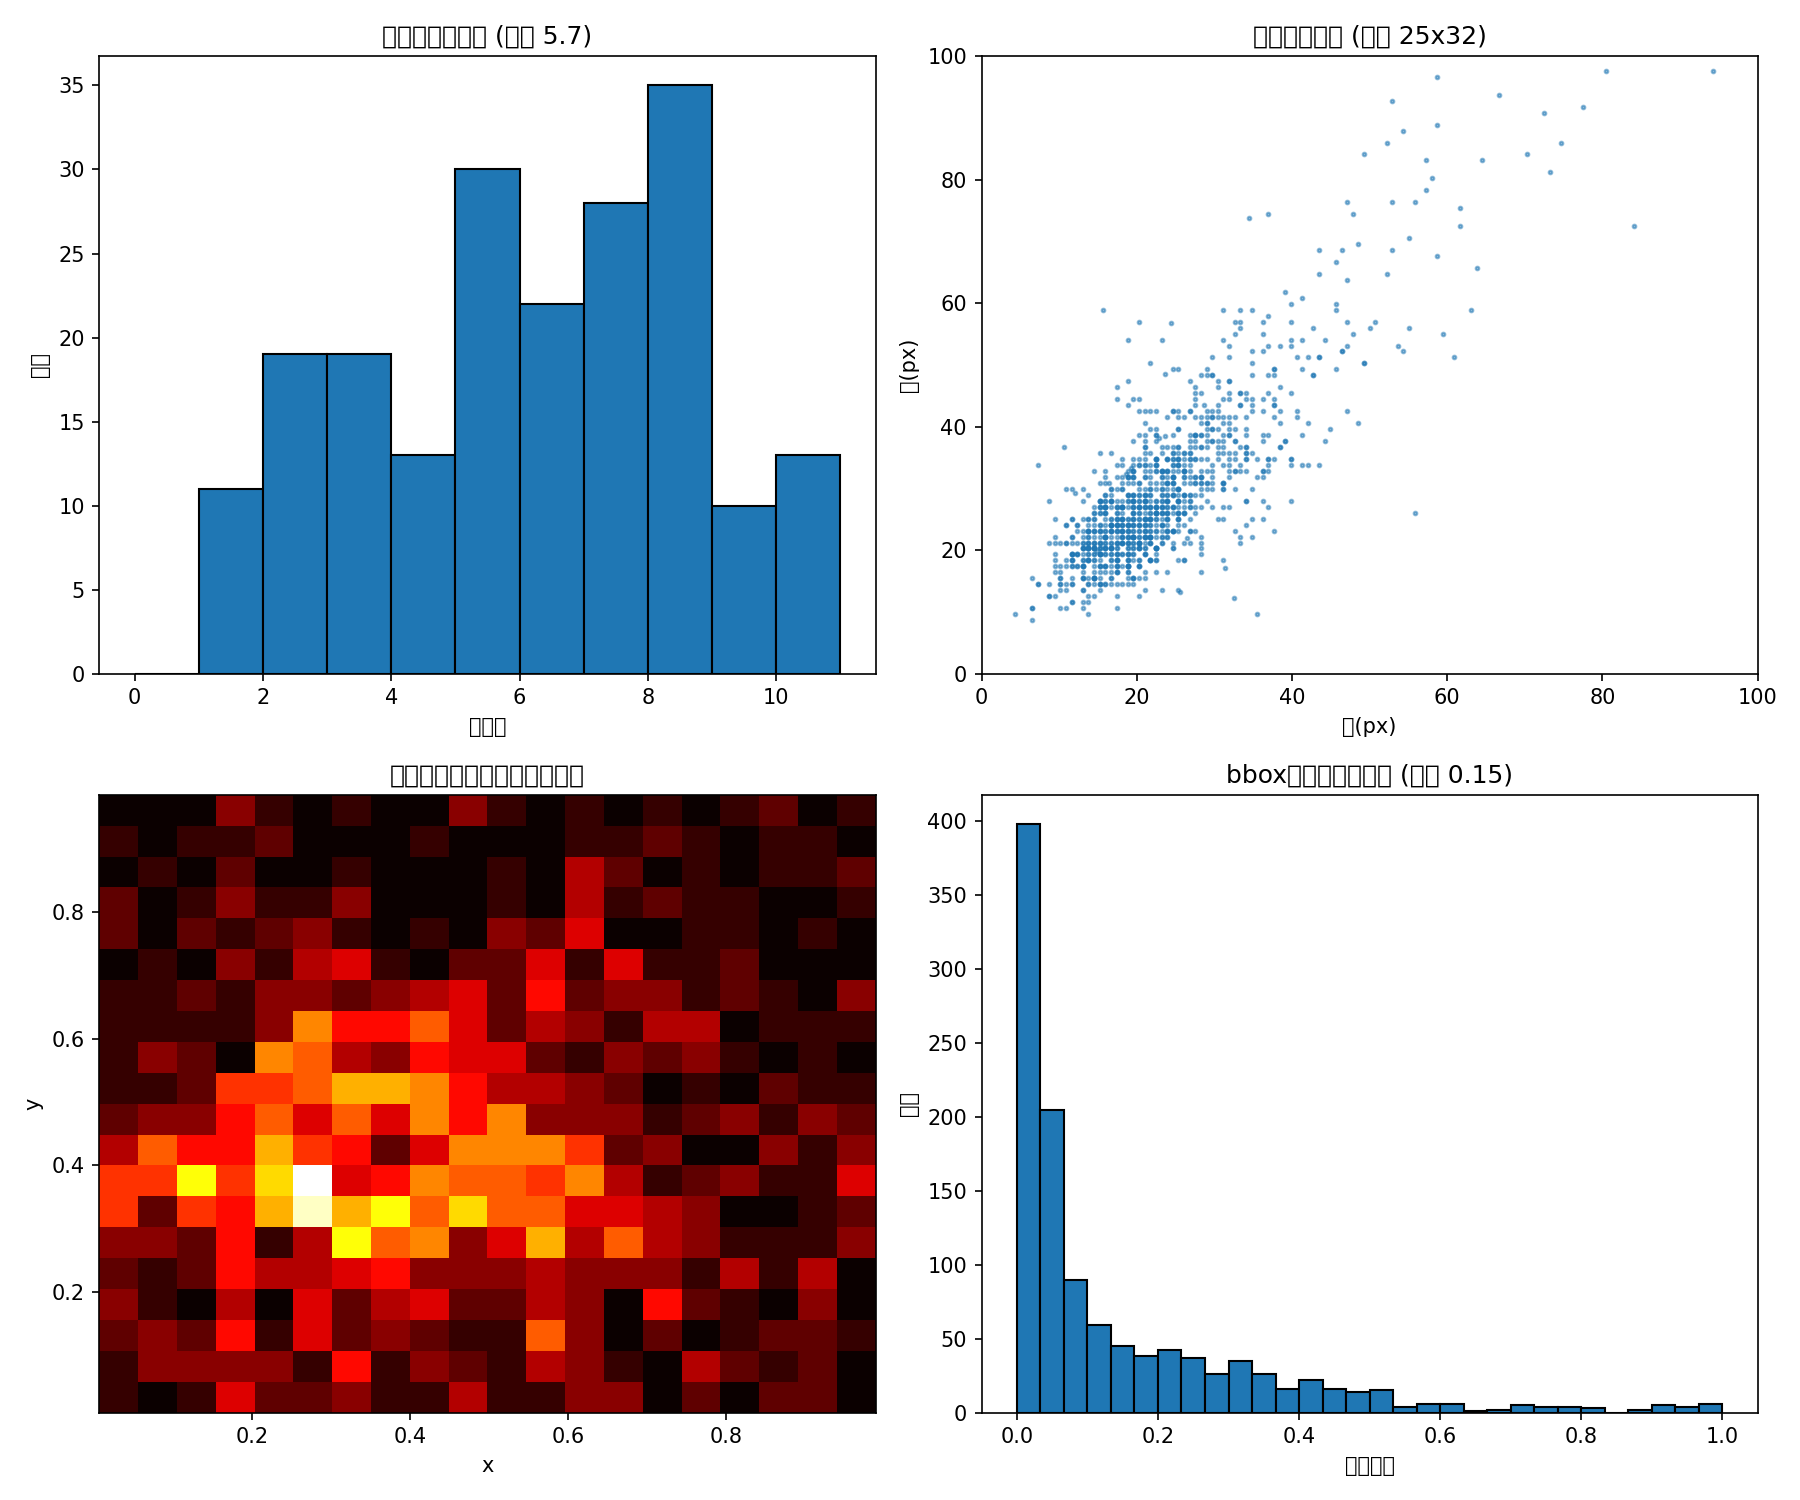
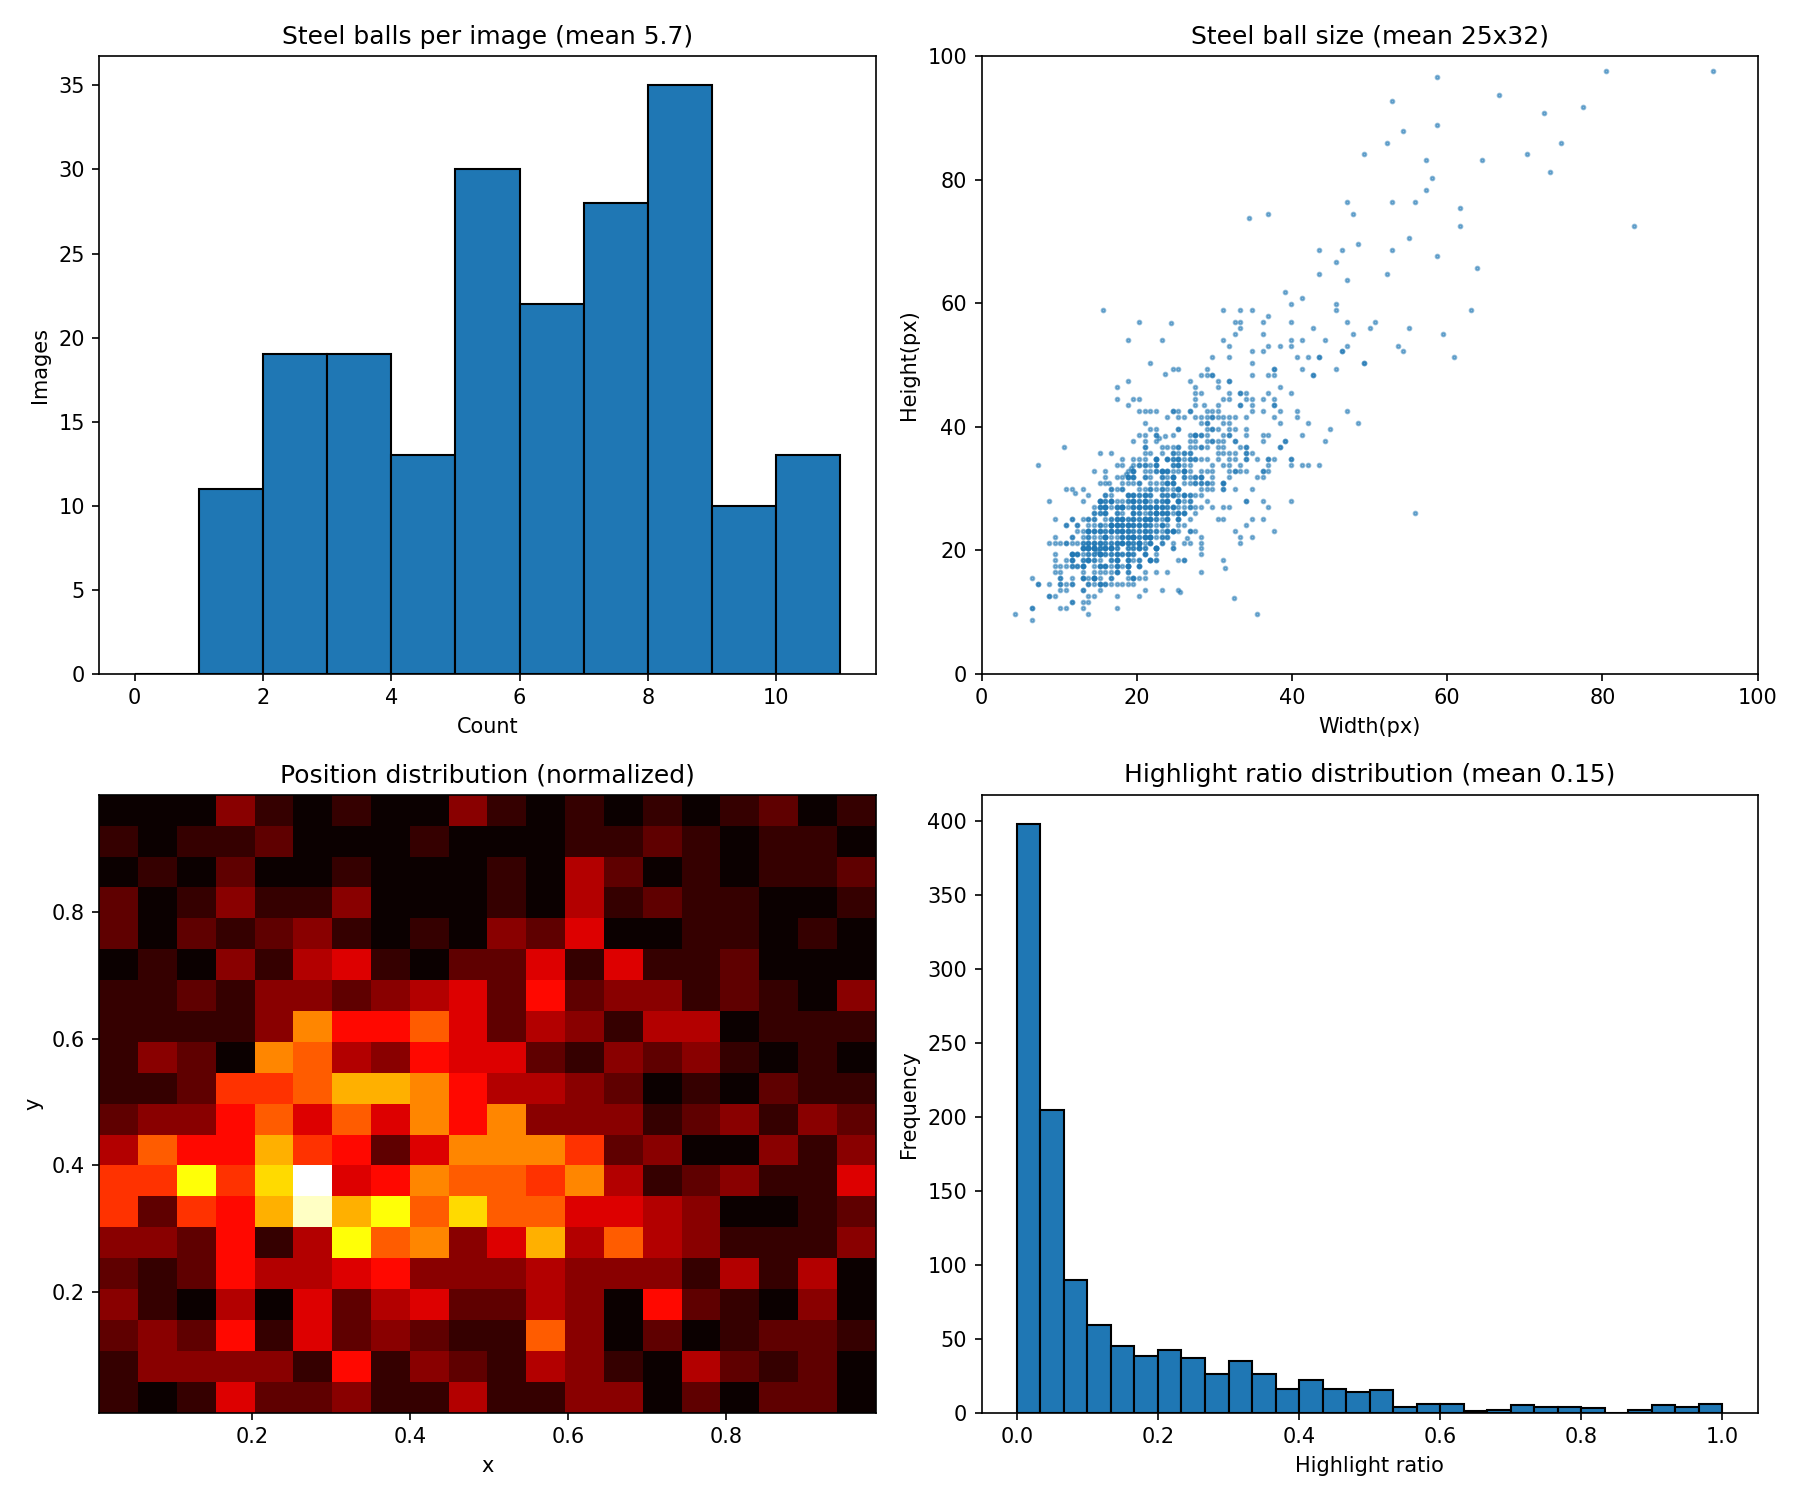
Fix EDA figure: use English labels, avoid Chinese font glyph issues

diff --git a/scripts/steelball_eda.py b/scripts/steelball_eda.py
@@ -1,8 +1,8 @@
 """
-钢珠数据 EDA（Exploratory Data Analysis）
+数据 EDA（Exploratory Data Analysis）
 
-分析钢珠数据集的分布特性：
-  - 每张图钢珠数量分布
+分析数据集的分布特性：
+  - 每张图数量分布
   - 钢珠像素尺寸分布（小目标分析）
   - 反光情况（高光点占比）
   - 位置分布（钢珠在画面中的位置）
@@ -18,6 +18,10 @@ import numpy as np
 import matplotlib
 matplotlib.use("Agg")
 import matplotlib.pyplot as plt
+
+# 字体配置：统一英文标签，用默认 DejaVu Sans（避免中文字体乱码）
+plt.rcParams["font.sans-serif"] = ["DejaVu Sans"]
+plt.rcParams["axes.unicode_minus"] = False
 
 sys.path.insert(0, os.path.dirname(os.path.dirname(os.path.abspath(__file__))))
 
@@ -43,7 +47,7 @@ def analyze():
     samples = load_labels("train")
     print(f"训练集: {len(samples)} 张图")
 
-    n_balls = []          # 每图钢珠数
+    n_balls = []          # 每图Count
     ball_sizes = []       # 钢珠归一化宽高
     positions = []        # 钢珠中心位置
     highlight_ratio = []  # 反光（高光点）占比
@@ -76,11 +80,11 @@ def analyze():
     # 可视化
     fig, axes = plt.subplots(2, 2, figsize=(12, 10))
 
-    # 1. 钢珠数量分布
+    # 1. 数量分布
     ax = axes[0, 0]
     ax.hist(n_balls, bins=range(0, max(n_balls) + 2), edgecolor="black")
-    ax.set_title(f"每图钢珠数分布 (均值 {np.mean(n_balls):.1f})")
-    ax.set_xlabel("钢珠数"); ax.set_ylabel("图数")
+    ax.set_title(f"Steel balls per image (mean {np.mean(n_balls):.1f})")
+    ax.set_xlabel("Count"); ax.set_ylabel("Images")
 
     # 2. 钢珠尺寸分布
     ax = axes[0, 1]
@@ -88,22 +92,22 @@ def analyze():
     ax.scatter(sizes[:, 0] * 640, sizes[:, 1] * 640, s=3, alpha=0.5)
     mean_w = float(sizes[:, 0].mean()) * 640
     mean_h = float(sizes[:, 1].mean()) * 640
-    ax.set_title(f"钢珠像素尺寸 (均值 {mean_w:.0f}x{mean_h:.0f})")
-    ax.set_xlabel("宽(px)"); ax.set_ylabel("高(px)")
+    ax.set_title(f"Steel ball size (mean {mean_w:.0f}x{mean_h:.0f})")
+    ax.set_xlabel("Width(px)"); ax.set_ylabel("Height(px)")
     ax.set_xlim(0, 100); ax.set_ylim(0, 100)
 
     # 3. 位置分布
     ax = axes[1, 0]
     pos = np.array(positions)
     ax.hist2d(pos[:, 0], pos[:, 1], bins=20, cmap="hot")
-    ax.set_title("钢珠位置分布（画面归一化）")
+    ax.set_title("Position distribution (normalized)")
     ax.set_xlabel("x"); ax.set_ylabel("y")
 
     # 4. 反光占比
     ax = axes[1, 1]
     ax.hist(highlight_ratio, bins=30, edgecolor="black")
-    ax.set_title(f"bbox内高光占比分布 (均值 {np.mean(highlight_ratio):.2f})")
-    ax.set_xlabel("高光占比"); ax.set_ylabel("频数")
+    ax.set_title(f"Highlight ratio distribution (mean {np.mean(highlight_ratio):.2f})")
+    ax.set_xlabel("Highlight ratio"); ax.set_ylabel("Frequency")
 
     plt.tight_layout()
     os.makedirs("outputs", exist_ok=True)
@@ -111,9 +115,9 @@ def analyze():
     print(f"EDA 图已保存: outputs/steelball_eda.png")
 
     print(f"\n统计:")
-    print(f"  每图钢珠数: 均值 {np.mean(n_balls):.1f}, 范围 {min(n_balls)}-{max(n_balls)}")
+    print(f"  每图Count: 均值 {np.mean(n_balls):.1f}, 范围 {min(n_balls)}-{max(n_balls)}")
     print(f"  钢珠尺寸: 均值 {mean_w:.1f}x{mean_h:.1f}px (归一化 {float(sizes[:, 0].mean()):.3f})")
-    print(f"  高光占比: 均值 {np.mean(highlight_ratio):.2f} (反光是普遍特征)")
+    print(f"  Highlight ratio: 均值 {np.mean(highlight_ratio):.2f} (反光是普遍特征)")
 
 
 if __name__ == "__main__":
